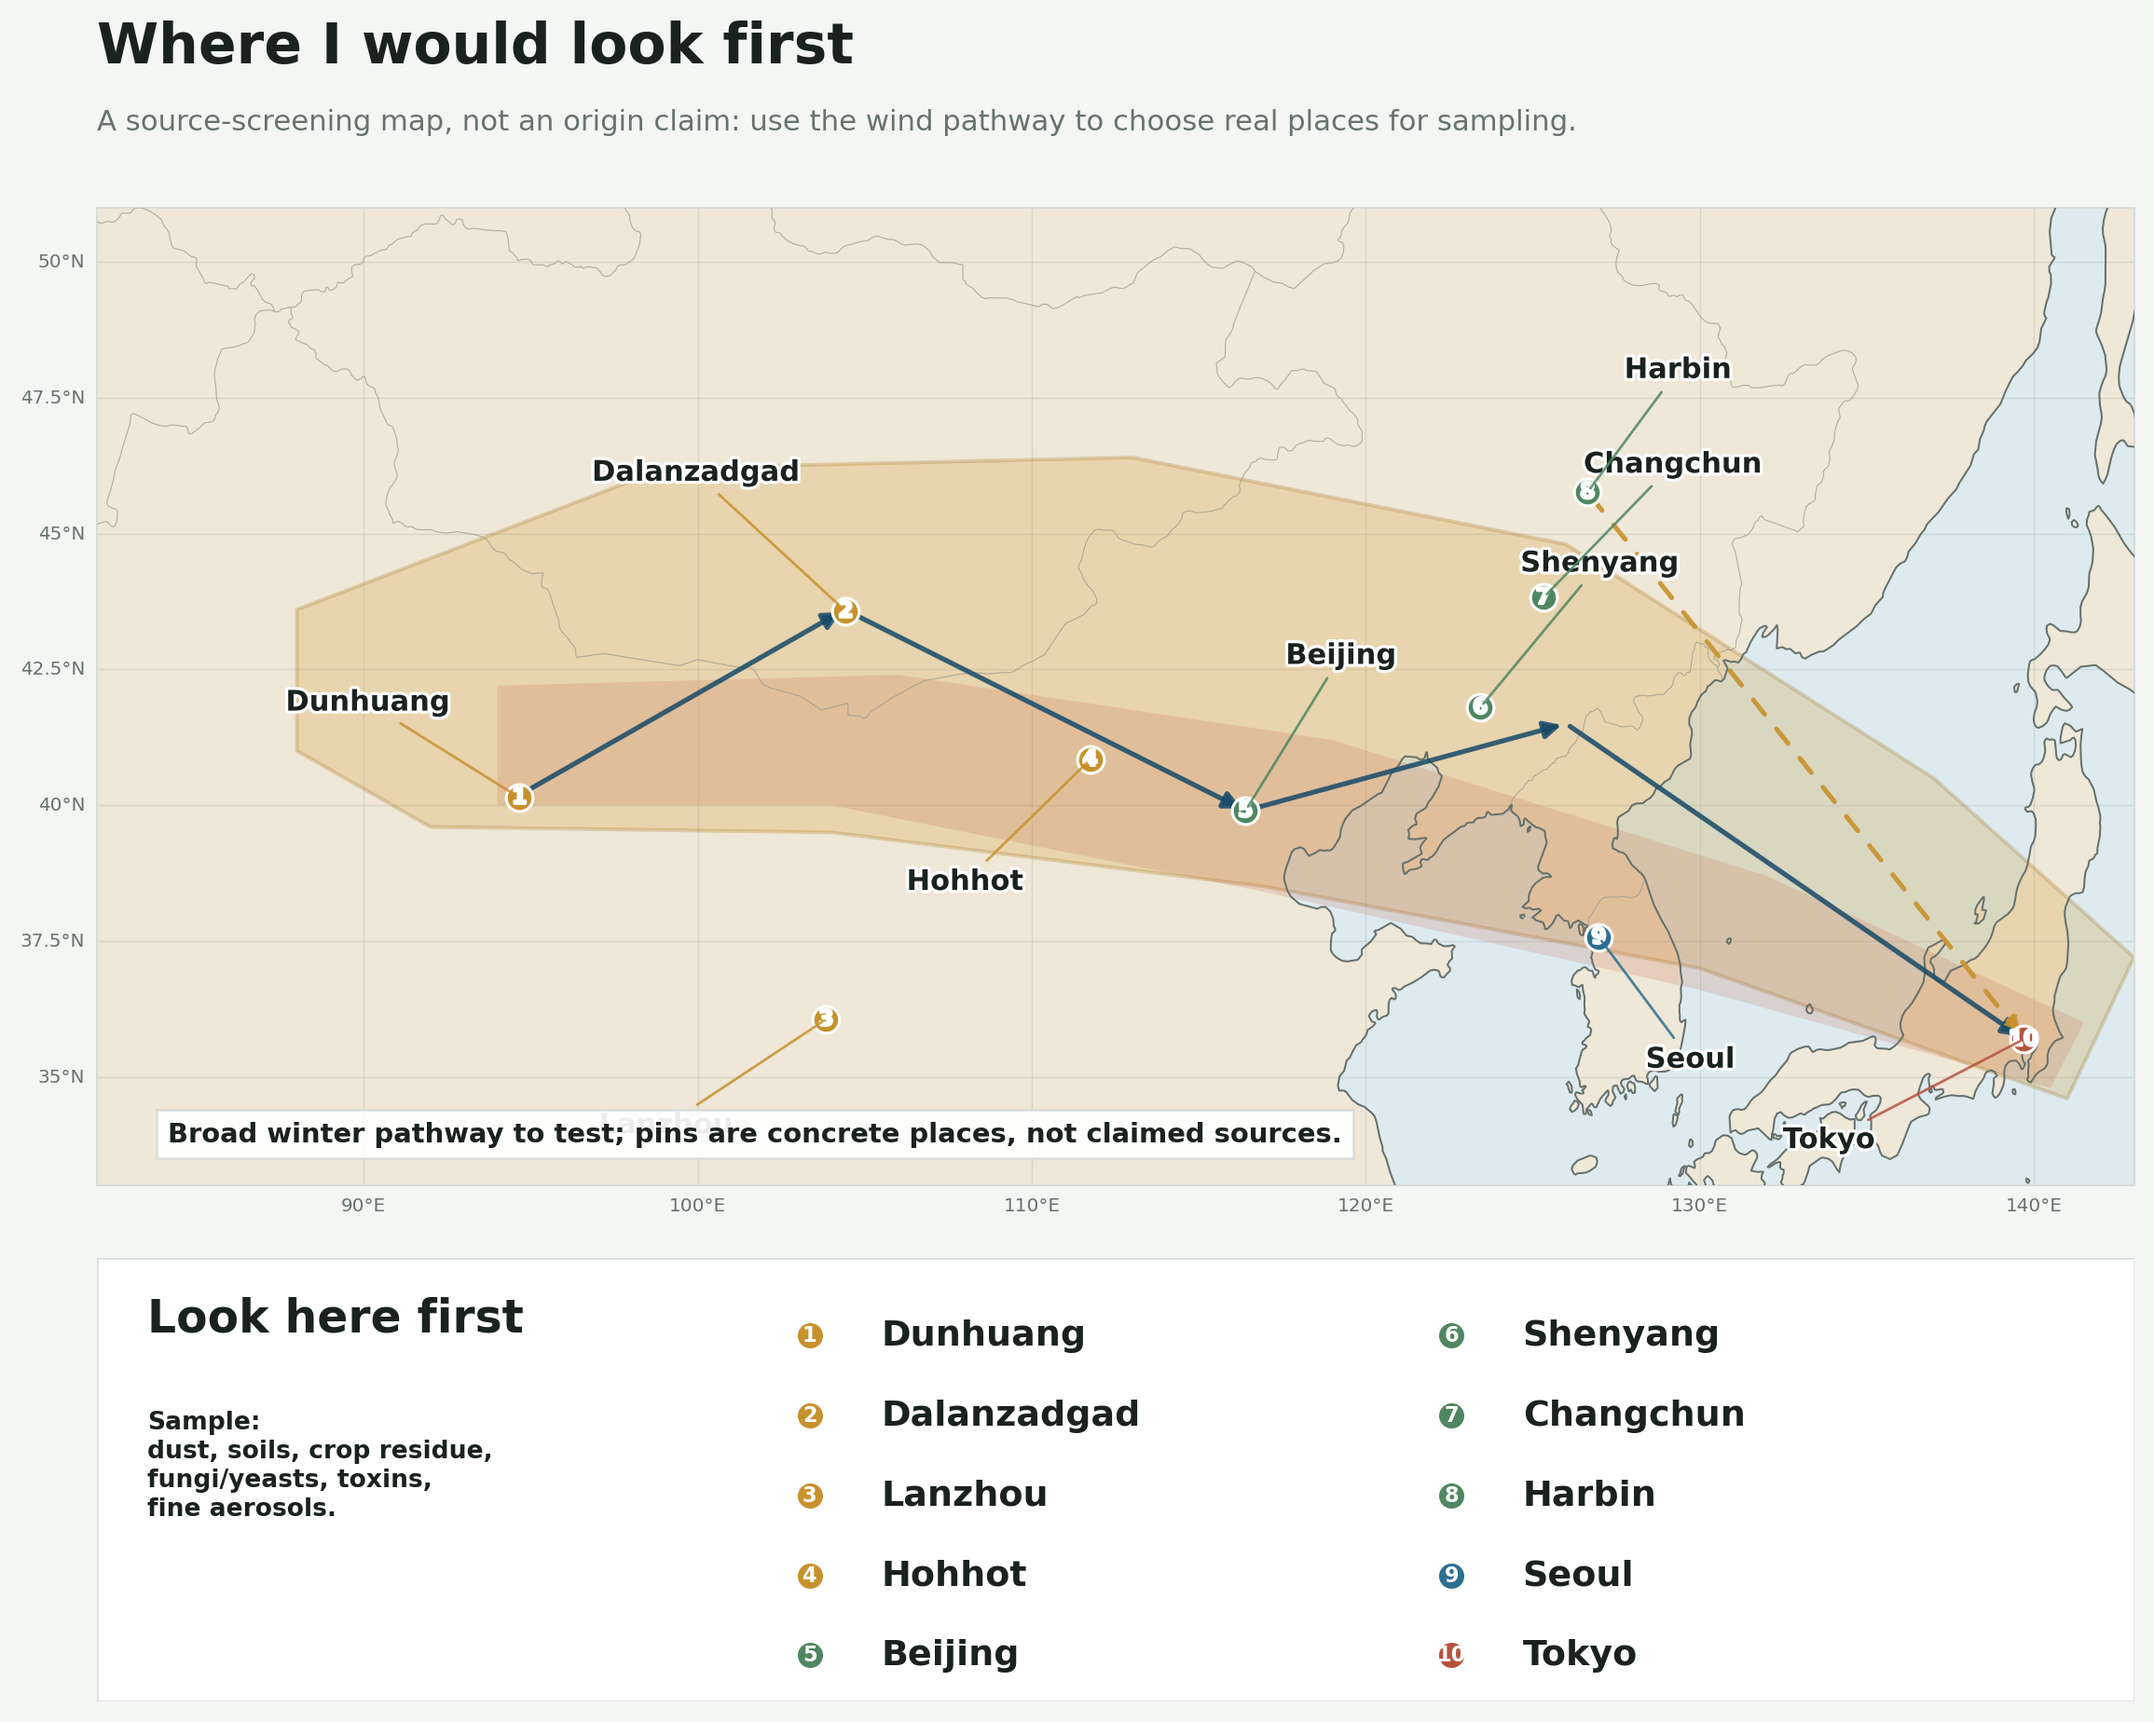
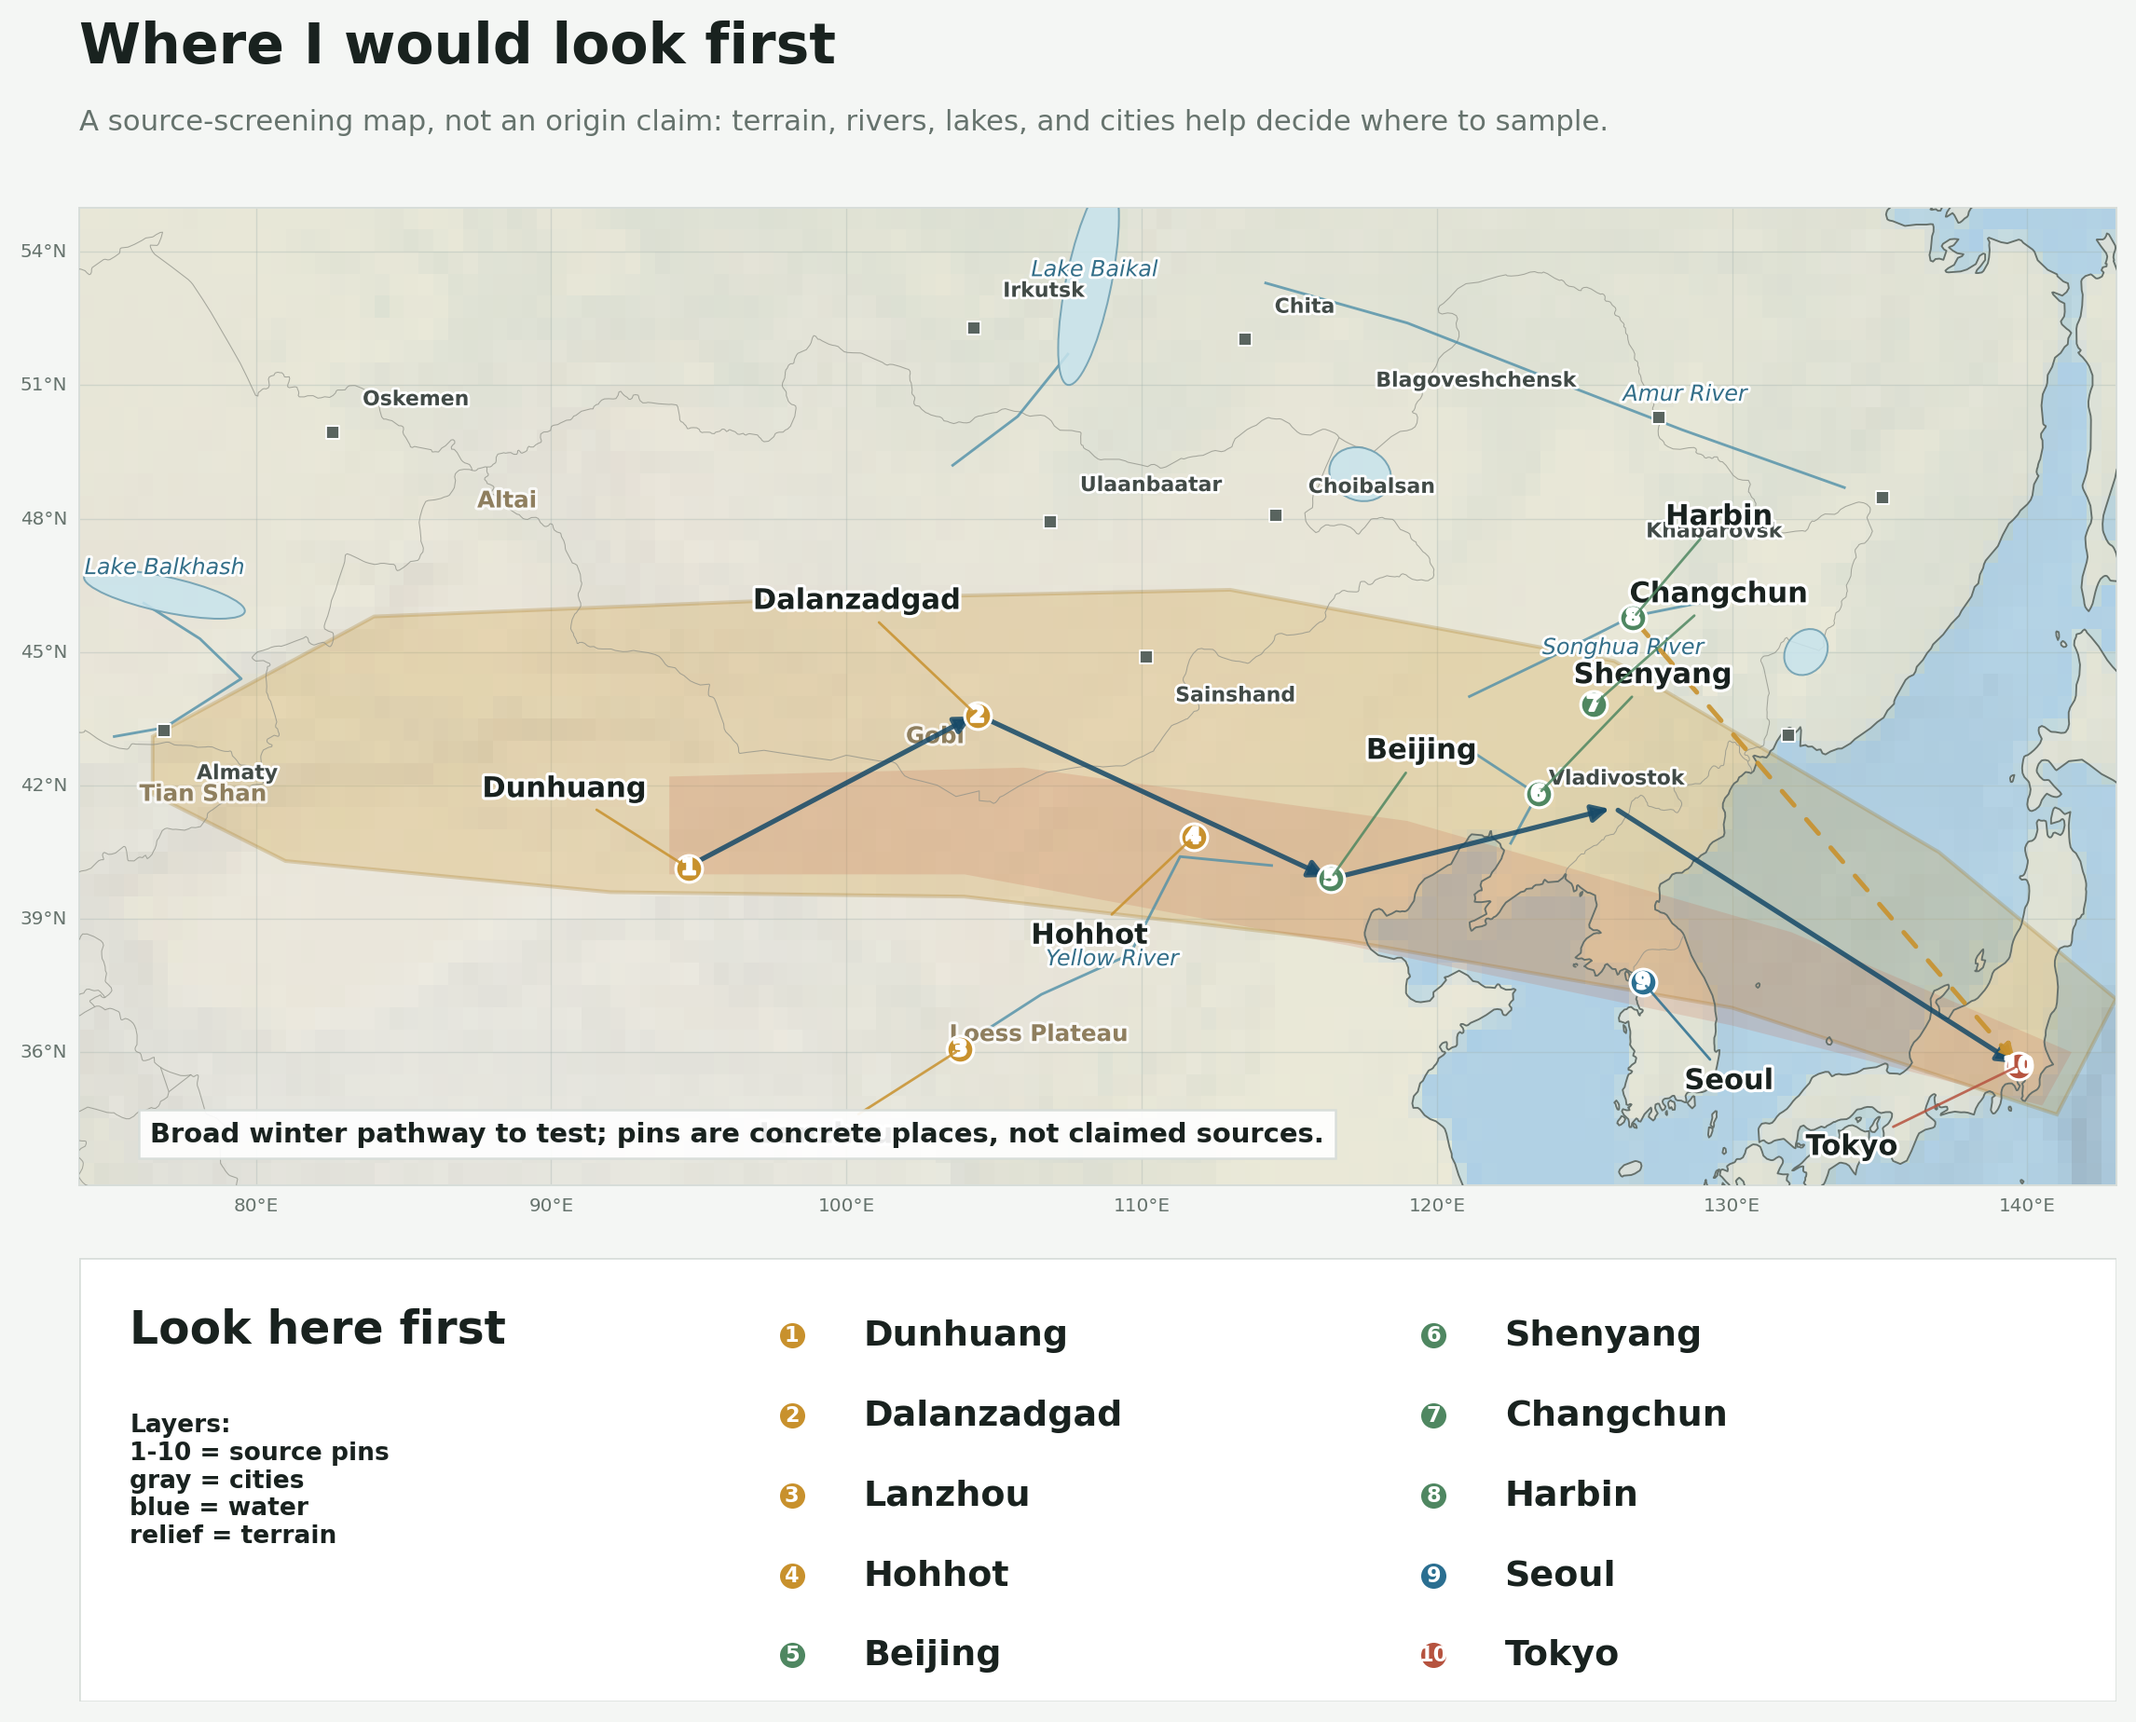
Add topo context to Kawasaki source map

diff --git a/scripts/generate_kawasaki_wind_article_images.py b/scripts/generate_kawasaki_wind_article_images.py
@@ -152,11 +152,14 @@ def add_pacific_context(ax, *, grid_labels: bool = False) -> None:
 
 
 def add_source_context(ax) -> None:
-    ax.set_extent([82, 143, 33, 51], crs=ccrs.PlateCarree())
+    ax.set_extent([74, 143, 33, 55], crs=ccrs.PlateCarree())
     ax.set_facecolor(COLORS["water"])
-    ax.add_feature(cfeature.LAND.with_scale("50m"), facecolor=COLORS["land"], edgecolor="none", zorder=0)
-    ax.add_feature(cfeature.COASTLINE.with_scale("50m"), linewidth=0.8, color=COLORS["coast"], zorder=4)
-    ax.add_feature(cfeature.BORDERS.with_scale("50m"), linewidth=0.45, color="#9b9a90", alpha=0.75, zorder=4)
+    relief = ax.stock_img()
+    relief.set_alpha(0.46)
+    relief.set_zorder(0)
+    ax.add_feature(cfeature.LAND.with_scale("50m"), facecolor=COLORS["land"], edgecolor="none", alpha=0.56, zorder=1)
+    ax.add_feature(cfeature.COASTLINE.with_scale("50m"), linewidth=0.75, color=COLORS["coast"], zorder=6)
+    ax.add_feature(cfeature.BORDERS.with_scale("50m"), linewidth=0.42, color="#8f9188", alpha=0.75, zorder=6)
     gl = ax.gridlines(
         crs=ccrs.PlateCarree(),
         draw_labels=True,
@@ -511,7 +514,8 @@ def image_source_screening_map() -> None:
 
     swath = np.array(
         [
-            [88, 43.6],
+            [76.5, 43.1],
+            [84, 45.8],
             [99, 46.2],
             [113, 46.4],
             [126, 44.8],
@@ -522,7 +526,8 @@ def image_source_screening_map() -> None:
             [117, 38.5],
             [104, 39.5],
             [92, 39.6],
-            [88, 41.0],
+            [81, 40.3],
+            [76.5, 41.8],
         ]
     )
     ax.add_patch(
@@ -563,6 +568,123 @@ def image_source_screening_map() -> None:
             zorder=3,
         )
     )
+
+    river_color = "#4f8fa8"
+    lake_fill = "#c8e4ed"
+    lake_edge = "#6b9caf"
+    waterways = [
+        [(75.2, 43.1), (76.9, 43.3), (79.5, 44.4), (78.1, 45.3), (76.2, 46.1)],  # Ili / Balkhash
+        [(103.8, 36.1), (106.6, 37.3), (109.6, 38.2), (111.3, 40.4), (114.4, 40.2)],  # Yellow River
+        [(121.1, 44.0), (123.6, 44.8), (126.6, 45.8), (129.6, 46.2)],  # Songhua
+        [(114.2, 53.3), (119.0, 52.4), (124.0, 51.1), (128.3, 50.0), (133.8, 48.7)],  # Amur
+        [(121.1, 42.8), (123.4, 41.8), (122.5, 40.7)],  # Liao
+        [(103.6, 49.2), (105.8, 50.3), (107.5, 51.7)],  # Selenga / Baikal
+    ]
+    for coords in waterways:
+        lon, lat = np.array(coords).T
+        ax.plot(lon, lat, color=river_color, linewidth=1.15, alpha=0.80, transform=ccrs.PlateCarree(), zorder=6)
+
+    lakes = [
+        (76.9, 46.3, 5.5, 0.8, -8),
+        (108.2, 53.3, 1.5, 4.8, -18),
+        (117.4, 49.0, 2.1, 1.2, -6),
+        (132.5, 45.0, 1.5, 1.0, 14),
+    ]
+    for lon, lat, width, height, angle in lakes:
+        ax.add_patch(
+            Ellipse(
+                (lon, lat),
+                width,
+                height,
+                angle=angle,
+                transform=ccrs.PlateCarree(),
+                facecolor=lake_fill,
+                edgecolor=lake_edge,
+                linewidth=0.8,
+                alpha=0.86,
+                zorder=6,
+            )
+        )
+
+    waterway_labels = [
+        ("Lake Balkhash", 76.9, 46.9),
+        ("Lake Baikal", 108.4, 53.6),
+        ("Yellow River", 109.0, 38.1),
+        ("Songhua River", 126.3, 45.1),
+        ("Amur River", 128.4, 50.8),
+    ]
+    for label, lon, lat in waterway_labels:
+        text = ax.text(
+            lon,
+            lat,
+            label,
+            transform=ccrs.PlateCarree(),
+            fontsize=9.5,
+            color="#346f89",
+            style="italic",
+            ha="center",
+            va="center",
+            zorder=7,
+        )
+        stroke_text(text, lw=2.3)
+
+    terrain_labels = [
+        ("Tian Shan", 78.2, 41.8),
+        ("Altai", 88.5, 48.4),
+        ("Gobi", 103.0, 43.1),
+        ("Loess Plateau", 106.5, 36.4),
+    ]
+    for label, lon, lat in terrain_labels:
+        text = ax.text(
+            lon,
+            lat,
+            label,
+            transform=ccrs.PlateCarree(),
+            fontsize=9.8,
+            color="#7b6842",
+            weight="bold",
+            alpha=0.82,
+            ha="center",
+            va="center",
+            zorder=7,
+        )
+        stroke_text(text, lw=2.4)
+
+    context_cities = [
+        ("Almaty", 76.89, 43.24, 1.1, -1.1),
+        ("Oskemen", 82.61, 49.95, 1.0, 0.6),
+        ("Irkutsk", 104.30, 52.29, 1.0, 0.7),
+        ("Ulaanbaatar", 106.91, 47.92, 1.0, 0.7),
+        ("Sainshand", 110.14, 44.89, 1.0, -1.0),
+        ("Chita", 113.50, 52.03, 1.0, 0.6),
+        ("Choibalsan", 114.54, 48.08, 1.1, 0.5),
+        ("Blagoveshchensk", 127.53, 50.27, -9.6, 0.7),
+        ("Khabarovsk", 135.08, 48.48, -8.0, -0.9),
+        ("Vladivostok", 131.89, 43.12, -8.1, -1.1),
+    ]
+    for city, lon, lat, dx, dy in context_cities:
+        ax.scatter(
+            lon,
+            lat,
+            s=30,
+            marker="s",
+            color="#59645f",
+            edgecolor="white",
+            linewidth=0.7,
+            transform=ccrs.PlateCarree(),
+            zorder=8,
+        )
+        text = ax.text(
+            lon + dx,
+            lat + dy,
+            city,
+            transform=ccrs.PlateCarree(),
+            fontsize=8.8,
+            color="#424b47",
+            weight="bold",
+            zorder=8,
+        )
+        stroke_text(text, lw=2.2)
 
     sites = [
         ("1", "Dunhuang", "Taklamakan edge", 94.66, 40.14, -7.0, 1.6, COLORS["gold"]),
@@ -638,7 +760,7 @@ def image_source_screening_map() -> None:
         zorder=8,
     )
 
-    list_ax.text(0.025, 0.835, "Look here first", transform=list_ax.transAxes, fontsize=19.5, weight="bold", color=COLORS["ink"], zorder=2)
+    list_ax.text(0.025, 0.890, "Look here first", transform=list_ax.transAxes, fontsize=19.5, weight="bold", color=COLORS["ink"], va="top", zorder=2)
     row_y = [0.825, 0.645, 0.465, 0.285, 0.105]
     for i, (num, city, _note, _lon, _lat, _dx, _dy, color) in enumerate(sites):
         col_x = 0.350 if i < 5 else 0.665
@@ -648,13 +770,14 @@ def image_source_screening_map() -> None:
         list_ax.text(col_x + 0.035, y, city, transform=list_ax.transAxes, fontsize=15.2, color=COLORS["ink"], weight="bold", ha="left", va="center", zorder=2)
     list_ax.text(
         0.025,
-        0.430,
-        "Sample:\ndust, soils, crop residue,\nfungi/yeasts, toxins,\nfine aerosols.",
+        0.650,
+        "Layers:\n1-10 = source pins\ngray = cities\nblue = water\nrelief = terrain",
         transform=list_ax.transAxes,
         fontsize=10.6,
         color=COLORS["ink"],
         weight="bold",
-        linespacing=1.25,
+        linespacing=1.18,
+        va="top",
         wrap=True,
         zorder=2,
     )
@@ -663,7 +786,7 @@ def image_source_screening_map() -> None:
     fig.text(
         0.040,
         0.928,
-        "A source-screening map, not an origin claim: use the wind pathway to choose real places for sampling.",
+        "A source-screening map, not an origin claim: terrain, rivers, lakes, and cities help decide where to sample.",
         fontsize=12.3,
         color=COLORS["muted"],
     )

diff --git a/_posts/2026-04-21-kawasaki-disease-wind-patterns.md b/_posts/2026-04-21-kawasaki-disease-wind-patterns.md
@@ -36,11 +36,15 @@ The lead map is the first sanity check. The red line is not meant to be a litera
 
 That is already a narrower research path than "something in the air." It gives you places, seasons, and failure modes. If I were turning this into an actual source hunt, I would start with a broad stripe across continental Asia and then try to shrink it.
 
-![Map of source-screening pins at Dunhuang, Dalanzadgad, Lanzhou, Hohhot, Beijing, Shenyang, Changchun, Harbin, Seoul, and Tokyo inside a broader continental Asia wind stripe.](/assets/img/posts/kawasaki-wind-patterns/source-screening-swath.png)
+![Map of source-screening pins at Dunhuang, Dalanzadgad, Lanzhou, Hohhot, Beijing, Shenyang, Changchun, Harbin, Seoul, and Tokyo inside a broader continental Asia wind stripe, with terrain relief, rivers, lakes, and context cities in Kazakhstan, Mongolia, and Russia.](/assets/img/posts/kawasaki-wind-patterns/source-screening-swath.png)
 
-*This is the map I wanted: not a claimed source, but a set of specific pins to sample or cross-check against the wind pathway.*
+*This is the map I wanted: not a claimed source, but a set of specific pins to sample or cross-check against the wind pathway. The terrain and water layers are there to make the sampling question less abstract.*
 
 The first pass would be Dunhuang, Dalanzadgad, Lanzhou, Hohhot, Beijing, Shenyang, Changchun, Harbin, Seoul, and Tokyo. I would not treat those as magic dots on a map. I would treat them as places to pull soils, dust, crop residue, fungi and yeasts, toxins, and fine aerosols into the same comparison frame.
+
+I also want the map to show what the air is passing over. Rivers, lakes, basins, deserts, mountains, and nearby cities change the list of plausible things to check. A dust-source basin is not the same sampling problem as a river valley, an agricultural plain, or a downwind city.
+
+The extra city labels are there as anchors, not as accusations: Almaty and Oskemen on the Kazakhstan side; Ulaanbaatar, Sainshand, and Choibalsan in Mongolia; and Irkutsk, Chita, Blagoveshchensk, Khabarovsk, and Vladivostok across the southern Russian edge of the map.
 
 I would treat that stripe as a sampling plan. The desert regions matter because Asian dust-source areas can loft bacterial and fungal bioaerosols ([Maki et al., 2019](#ref-maki2019)). The North China and northeast China pieces matter because later flight sampling over Japan, designed around suspected source-region winds, found a strong fungal signal including Candida, while still stopping short of naming a causal agent ([Rodo et al., 2014](#ref-rodo2014)). The agricultural and soil regions matter because toxins, plant decay, fungi, yeasts, and dust-attached cofactors are all different enough that I would not want one generic "upstream Asia" bucket.
 
